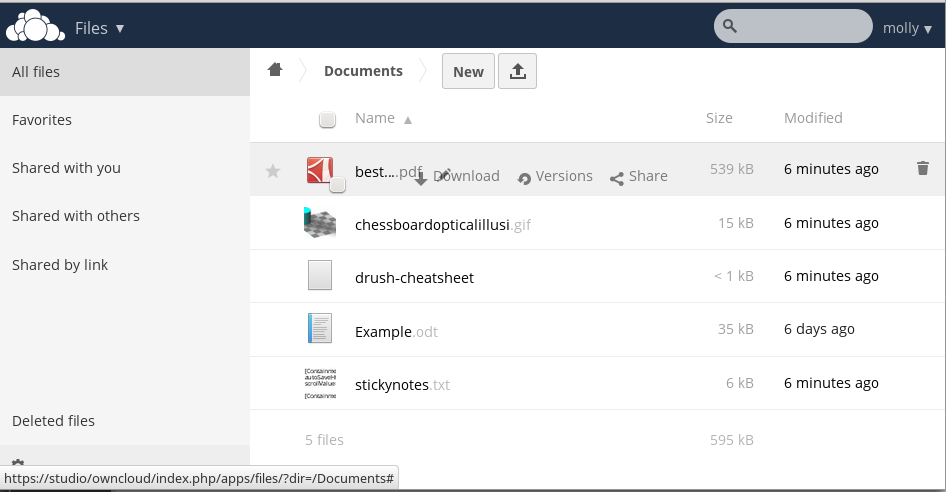
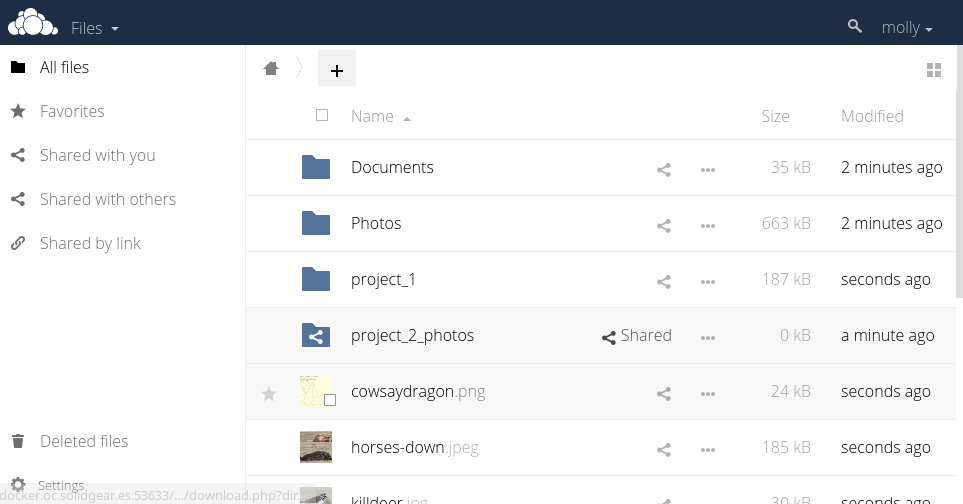
update some screenshots to show new UI

diff --git a/user_manual/webinterface.rst b/user_manual/webinterface.rst
@@ -6,25 +6,22 @@ You can connect to your ownCloud server using any Web browser; just point it to
 your ownCloud server and enter your username and password.
 
   .. figure:: images/oc_connect.png
-    :scale: 75%
+     :alt: ownCloud login screen.
 
-    **ownCloud login window**
-
-.. note:: Some apps like ``files_external`` or ``encryption`` are disabling the ``remember``
-   checkbox (shown above) on purpose if they are enabled by your administrator. 
+.. note:: Some apps like ``files_external`` or ``encryption`` will disable 
+   the **Stay logged in** checkbox.
 
 Navigating the Main User Interface
-------------------------------------
+----------------------------------
 
-By default, the ownCloud Web interface opens to your Files page.
-Once you have accessed the ownCloud Server main web interface you can add files, 
-remove files, and make changes based on the access privileges set by you
-(if you are administering the server) or by your server administrator.
+By default, the ownCloud Web interface opens to your Files page. Once you have 
+accessed the ownCloud Server main Web interface you can add files, remove files, 
+and make changes based on the access privileges set by you (if you are 
+administering the server) or by your server administrator.
 
   .. figure:: images/oc_main_web_labelled.png
-    :scale: 75%
-
-  **Navigating the main user interface**
+     :scale: 75%
+     :alt: The main Files view.
 
 The ownCloud Main User Interface contains the following fields and functions:
 
@@ -45,20 +42,18 @@ The ownCloud Main User Interface contains the following fields and functions:
   migrate to higher levels of the folder hierarchy up to the root level (home).
 
 * **New** button: Located in the Navigation Bar, the ``New`` button
-  enables you to create new files, new folders, or upload existing files from a
-  specified link.
+  enables you to create new files, new folders, or upload files.
 
 .. note:: You can also drag and drop files from your file manager into the 
    ownCloud Files Application View to upload them to ownCloud. Currently, 
    the only Web browsers that support drag-and-drop folders are Chrome and 
    Chromium.
 
-* **Upload** button: Located next to the ``New`` button in the
-  Navigation Bar, the ``Upload`` button opens a file picker for 
-  uploading files from your system to the ownCloud server. 
-
-* **Search** field: The Search field is in the upper right hand corner of 
-  your Web interface, for searching for files.
+* **Search** field: Click on the magnifier in the upper right hand corner of 
+  to search for files.
+  
+* **Gallery** button. This looks like four little squares, and takes you 
+  directly to your image gallery.   
 
 * **Personal Settings** menu: Click on your ownCloud username, located to the 
   right of the Search field, to open your Personal Settings dropdown menu. Your 
@@ -75,4 +70,3 @@ The ownCloud Main User Interface contains the following fields and functions:
   * ownCloud Version information
 
   See :doc:`userpreferences` section to learn more about those settings.
-

diff --git a/user_manual/files/access_webgui.rst b/user_manual/files/access_webgui.rst
@@ -7,7 +7,7 @@ preview, edit, delete, share, and re-share files. Your ownCloud administrator
 has the option to disable these features, so if any of them are missing on your 
 system ask your server administrator.
 
-.. figure:: ../images/users-files.png
+.. figure:: ../images/oc_main_web_labelled.png
    
 ownCloud can display thumbnail previews for image files, MP3 covers, 
 and text files, if this enabled by your server administrator. Hover your cursor 
